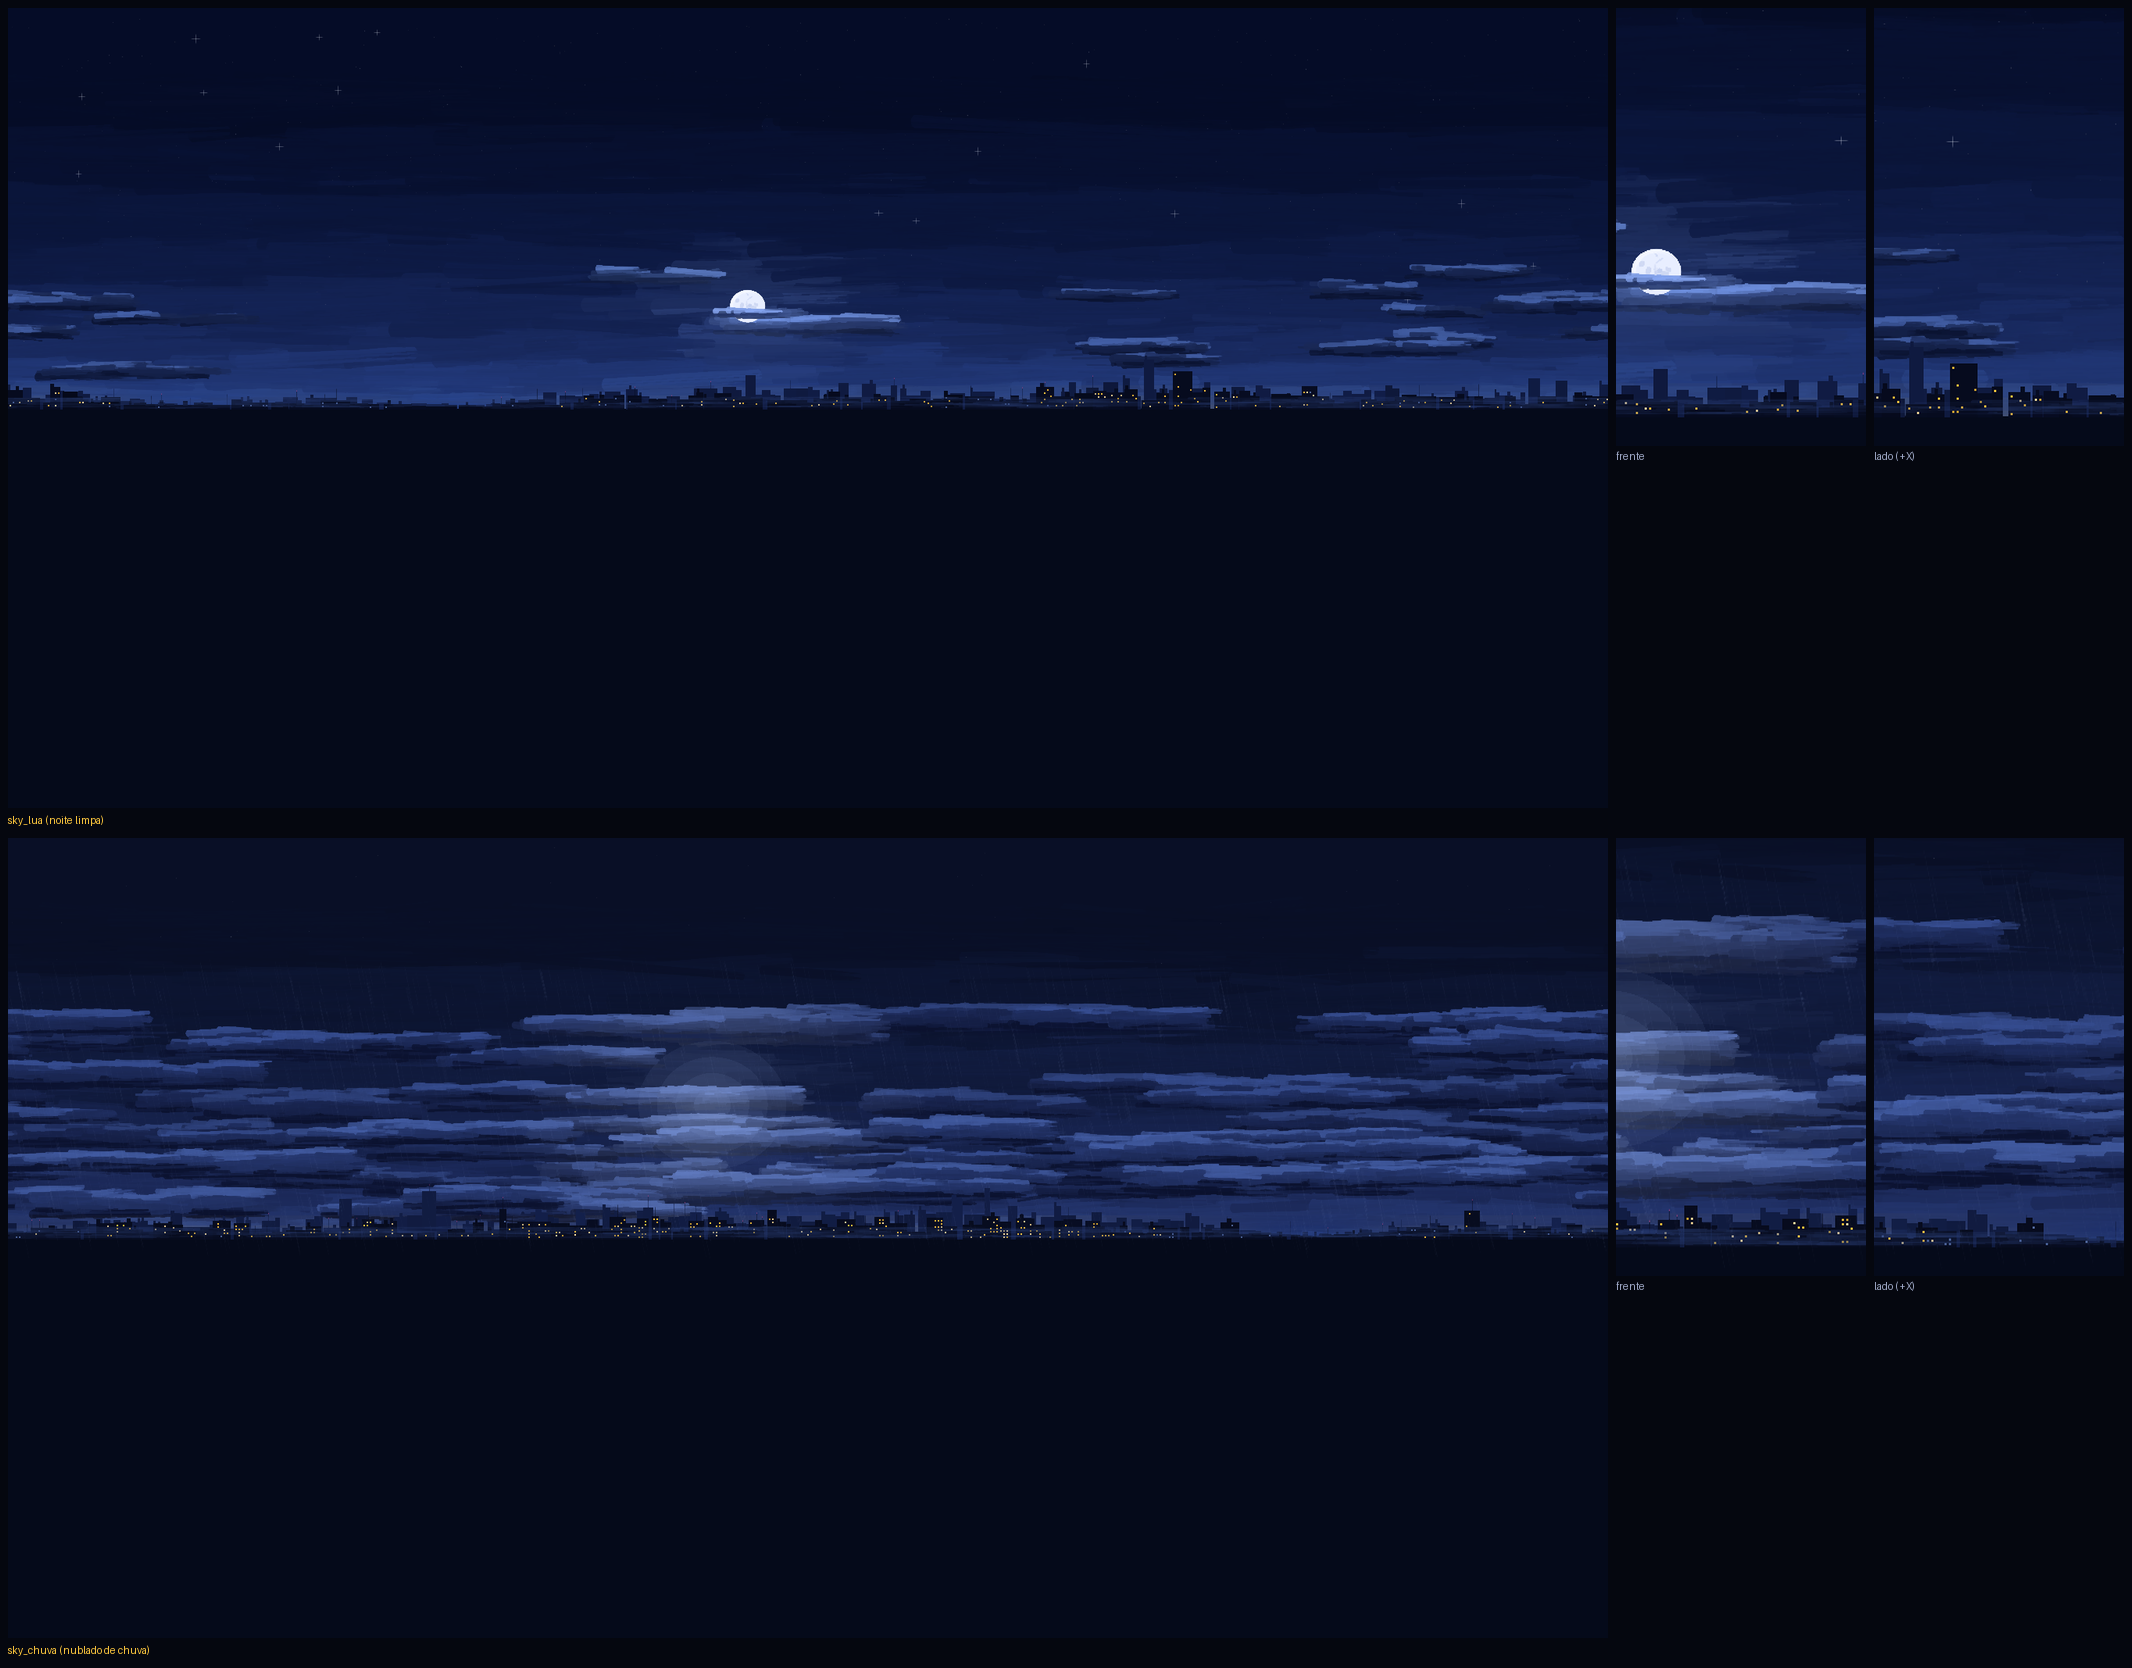
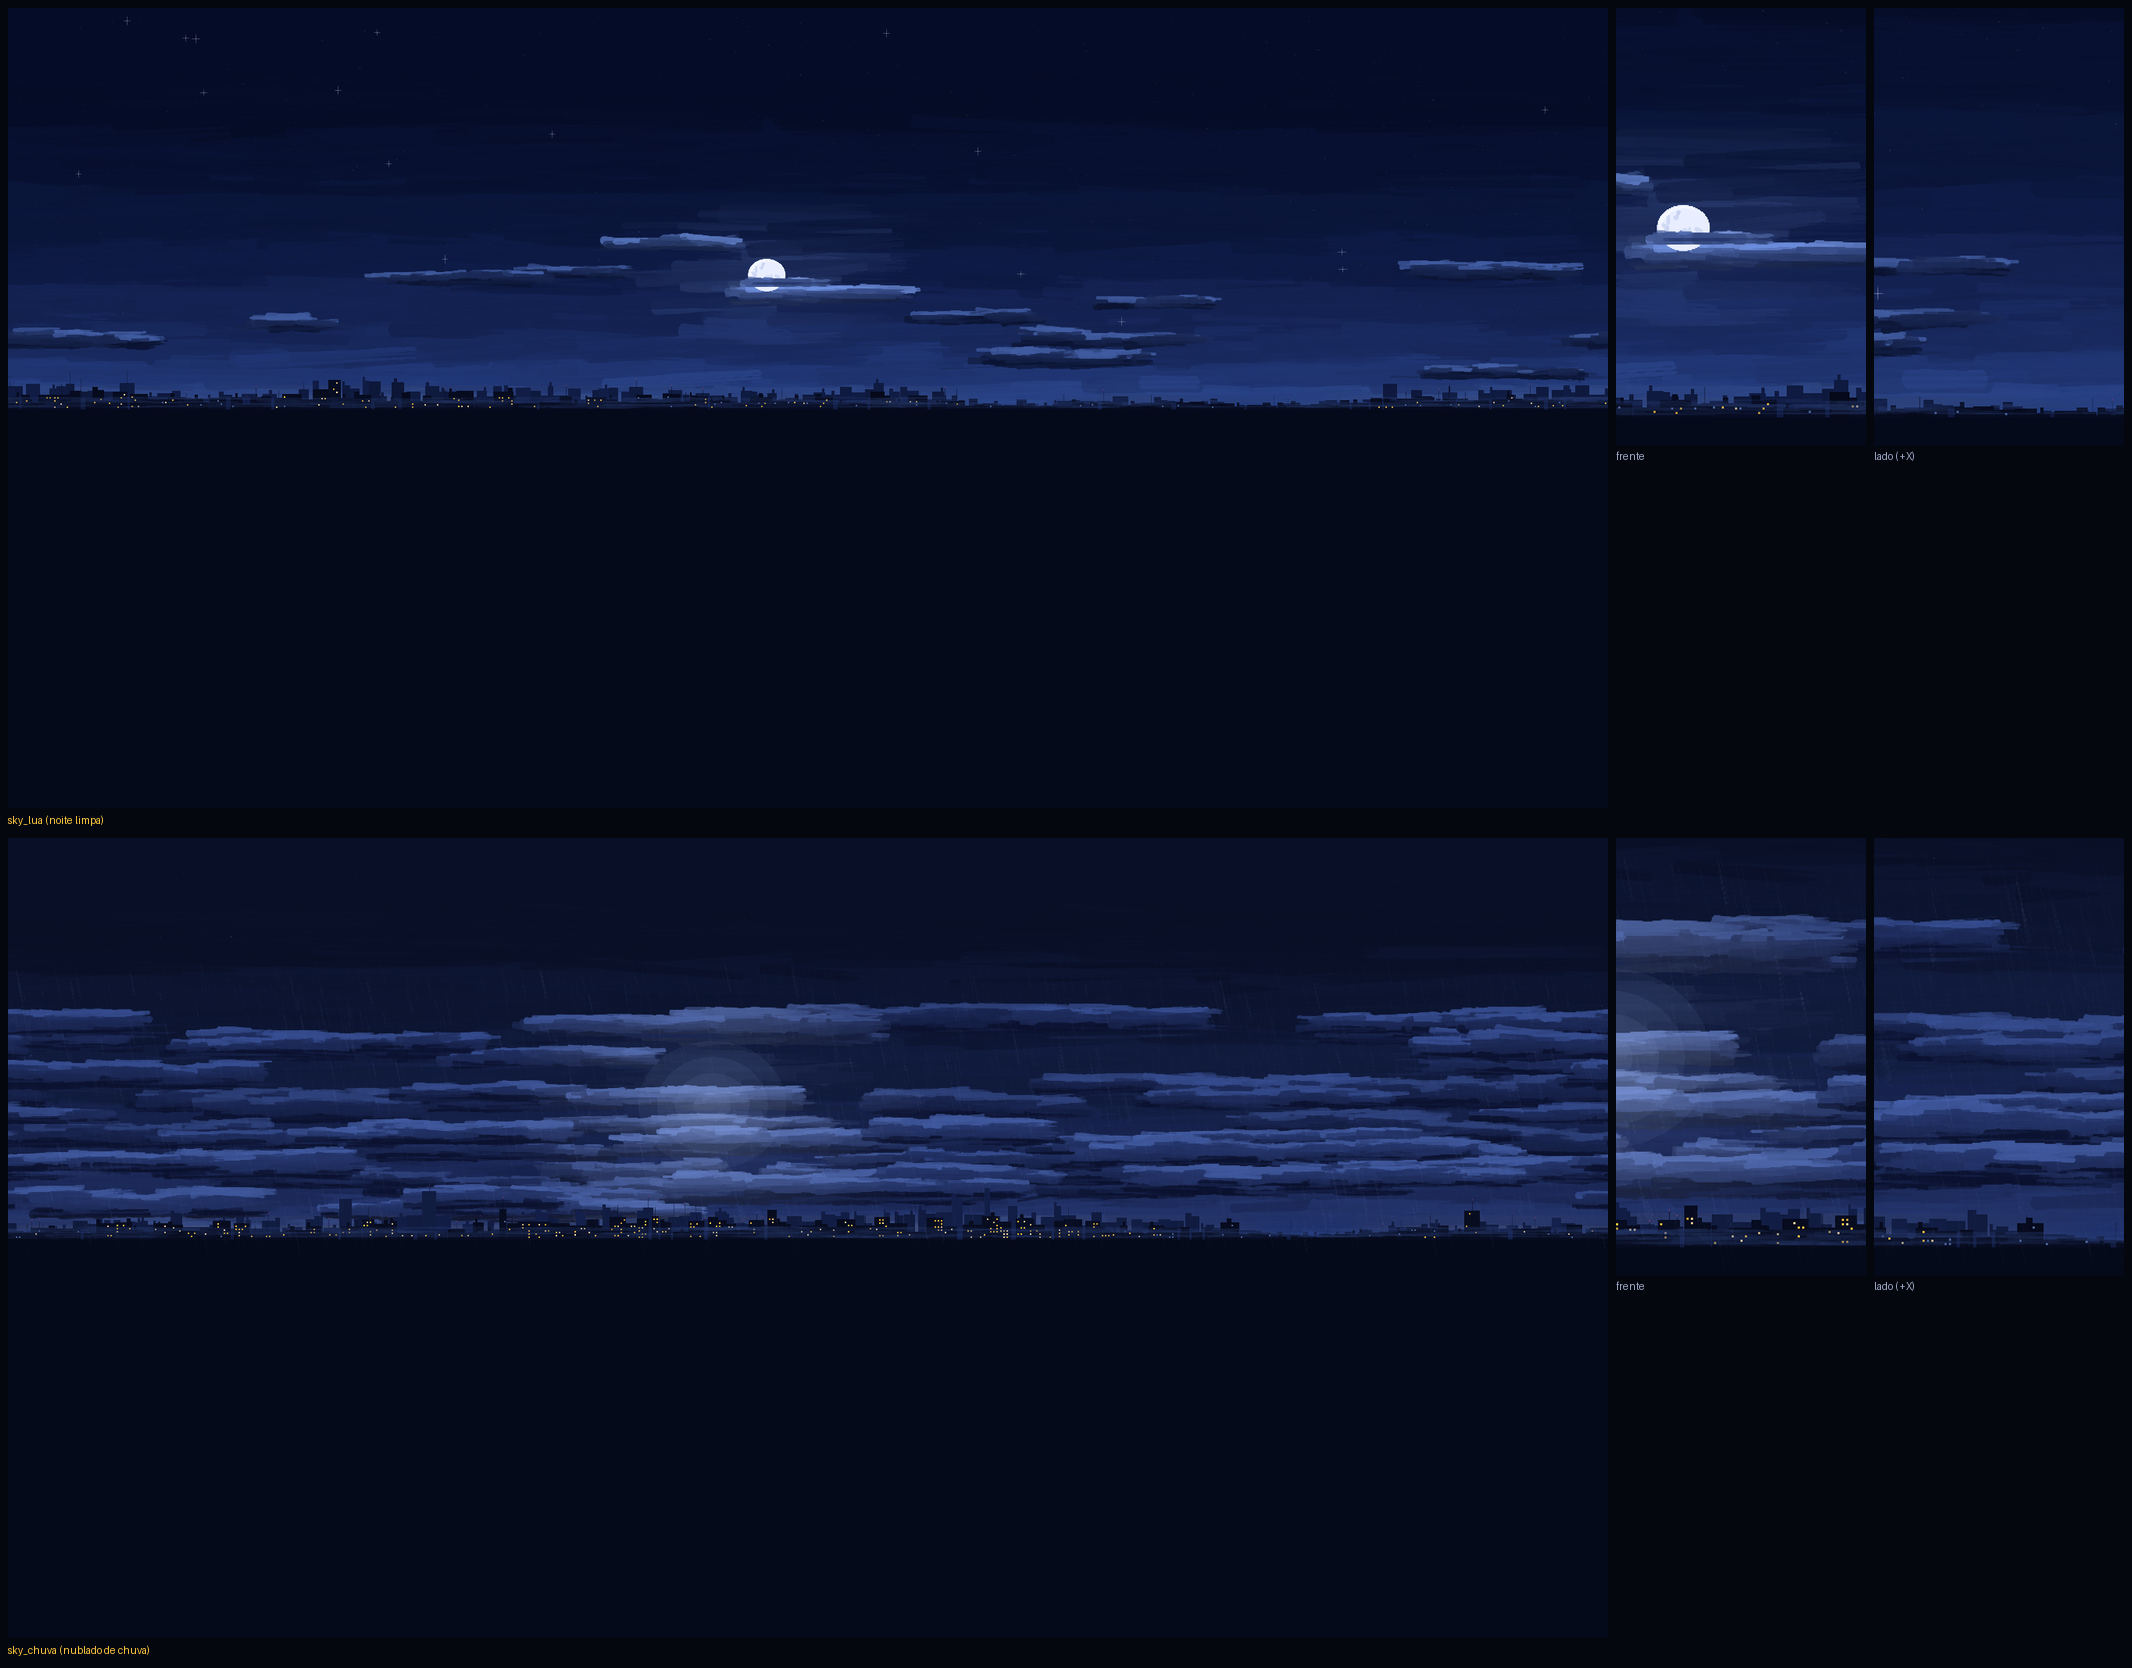
Interface e sala de conversa mais claras; sinal de já conversou nos personagens
Claude-Session: https://claude.ai/code/session_01WU8TdwGyomyxCuoEUUUd3U

Changed region(s): [[0.0, 0.0935, 1.0, 0.2494]]

diff --git a/tools/art/gen_sky.py b/tools/art/gen_sky.py
@@ -6,7 +6,8 @@ Duas variações com sementes fixas:
 As duas têm, no horizonte, a silhueta da cidade com janelinhas amarelas acesas (360 graus, porque
 os interiores enxergam o céu pelas janelas laterais).
 
-Convenção do Godot: u = 0.5 é a frente da câmera (-Z), u = 0.75 é +X; v = 0 é o zênite.
+Pintado com a frente da câmera (-Z) em u = 0.5 e +X em u = 0.75 (v = 0 é o zênite); ao gravar, o
+arquivo gira meia volta porque o Godot usa a frente em u = 0.
 Uso: python tools/art/gen_sky.py
 """
 from __future__ import annotations
@@ -280,28 +281,30 @@ class Sky:
     def finish(self, path):
         c = kuwahara_wrap(self.cv.c, 1)
         im = Image.fromarray((np.clip(c, 0, 1) * 255 + 0.5).astype(np.uint8), "RGB")
-        im.save(path, optimize=True)
+        # o Godot põe a frente da câmera (-Z) em u = 0 (medido na sonda com um panorama de teste);
+        # pintamos com a frente no meio (mais fácil de ver) e giramos meia volta só ao gravar
+        Image.fromarray(np.roll(np.asarray(im), W // 2, axis=1)).save(path, optimize=True)
         return im
 
 
 def sky_lua():
     s = Sky(101,
             [(90, "#03071a"), (55, "#071030"), (30, "#0e1b46"), (14, "#18295e"), (5, "#22397a"), (0, "#2f4b8e"), (-5, "#1a2a5a")],
-            9, 0.462, 23.0, 3.6, "#6f8fd8", 22.0, 0.32)
+            9, 0.474, 30.0, 3.6, "#6f8fd8", 22.0, 0.32)
     s.paint_gradient()
     s.stars(520)
     # nuvens: uma faixa longa cortando perto da lua, outras espalhadas pelo horizonte inteiro
     rng = s.rng
-    s.cloud(0.50, 17.0, 34, 3.6, "#15224d", "#5b78bf", "#0c1638", lit_side=True)
-    s.cloud(0.405, 28.5, 22, 2.8, "#122046", "#4f6db3", "#0b1434", lit_side=True)
+    s.cloud(0.51, 24.0, 34, 3.6, "#15224d", "#5b78bf", "#0c1638", lit_side=True)
+    s.cloud(0.415, 36.0, 22, 2.8, "#122046", "#4f6db3", "#0b1434", lit_side=True)
     for _ in range(16):
         u = rng.random()
-        if abs(u - 0.46) < 0.07:
+        if abs(u - 0.474) < 0.07:
             continue
         s.cloud(u, rng.uniform(7, 30), rng.uniform(14, 36), rng.uniform(2.0, 4.2), "#121e44", "#3f5a9e", "#0a1332", 0.8, lit_side=True)
     s.paint_moon()
     # um fiapo de nuvem passando na frente da parte de baixo da lua (dá profundidade)
-    s.cloud(0.47, 21.0, 12, 0.9, "#1a2a5c", "#7f98d6", "#13204a", 1.4, lit_side=True)
+    s.cloud(0.482, 28.0, 12, 0.9, "#1a2a5c", "#7f98d6", "#13204a", 1.4, lit_side=True)
     s.city("#2a3f78", hexc("#0f1a40"), hexc("#060b1f"), 0.09, 0.3)
     return s.finish(os.path.join(OUT, "sky_lua.png"))
 
